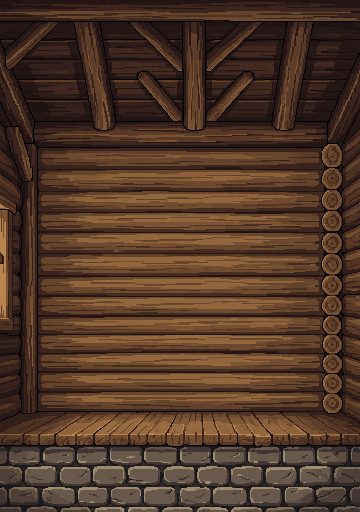
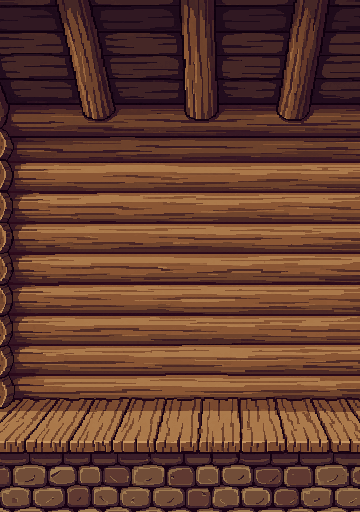
Küche: Hintergründe aus einem Stück mit flacher Wand über die ganze Breite, Prunkschrank geschlossen, Kamin bis zur Decke
Claude-Session: https://claude.ai/code/session_01QHsZuAAZEAAAxXtsadk7nu

diff --git a/index.html b/index.html
@@ -891,28 +891,27 @@ ROOMS2.karte={f:function(){return ['v_welt','mb0','mb1','mb2','mb3','m_lager','m
    bgF: y der Bodenkante im Hintergrundbild je Material. Bodenobjekte stehen auf der Bodenlinie T,
    der Held läuft lane Pixel davor. Wandobjekte: y = Abstand ihrer Unterkante über T. */
 function kMat(s){return s<=2?0:s<=5?1:2;}
-var KIT={halle:{bgF:[418,414,432],lane:[18,26,20],ceil:150,items:[
+var KIT={halle:{bgF:[402,406,404],lane:[24,32,20],top:[118,98,128],items:[
  {n:'teppich',v:3,s:2,x:164,k:'boden',dy:3},
- {n:'banner',v:2,s:3,x:164,k:'wand',y:58},
- {n:'fackel',v:2,s:4,x:100,k:'wand',y:66},{n:'fackel',v:2,s:4,x:226,k:'wand',y:66},
- {n:'leuchter',s:7,x:164,k:'decke',y:96},
- {n:'schrank',v:3,s:1,x:38,k:'boden'},
+ {n:'banner',v:2,s:3,x:164,k:'wand',y:118},
+ {n:'fackel',v:2,s:4,x:100,k:'wand',y:96},{n:'fackel',v:2,s:4,x:226,k:'wand',y:96},
+ {n:'leuchter',s:7,x:164,k:'decke',y:176},
+ {n:'schrank',v:3,s:1,x:36,k:'boden'},
  {n:'ruestung',s:6,x:90,k:'boden'},
  {n:'kamin',v:3,s:0,x:276,k:'boden',up:1},
- {n:'faesser',s:5,x:334,k:'boden'},
+ {n:'faesser',s:5,x:324,k:'boden'},
  {n:'tisch',v:3,s:0,x:164,k:'boden'},
  {n:'katze',s:8,x:258,k:'boden',dy:2}],fire:[276,30]}};
 function kName(r,it,m){return 'k_'+r+'_'+it.n+(it.v===3?m:it.v===2?Math.max(1,m):'');}
-function kList(r){var s=S.up[r]||0,m=kMat(s),l=['k_'+r+'_bg'+m,'k_'+r+'_decke'+m];KIT[r].items.forEach(function(it){if(s>=it.s)l.push(kName(r,it,m));});return l;}
+function kList(r){var s=S.up[r]||0,m=kMat(s),l=['k_'+r+'_bg'+m];KIT[r].items.forEach(function(it){if(s>=it.s)l.push(kName(r,it,m));});return l;}
 function kRoom(r,o){o=o||{};return{f:function(){return kList(r);},sig:o.sig||function(){return '';},
  st:function(x,FY,H){var K=KIT[r],s=S.up[r]||0,m=kMat(s),B=rBand(H,r),bg=wImg('k_'+r+'_bg'+m);B.oy=B.T-K.bgF[m];W.rb=B;W.fy=B.T;scPlace(x,bg,B,H);
   K.items.forEach(function(it){if(s<it.s)return;var im=wImg(kName(r,it,m)),w=im.width,h=im.height,X=Math.round(it.x-w/2),Y;
    if(it.k==='boden')Y=B.T-h+(it.dy||0);else Y=B.T-it.y-h;
-   if(it.k==='decke'){var cy=B.T-K.ceil;x.fillStyle='#2a2018';x.fillRect(it.x,cy,1,Y-cy+4);x.fillStyle='rgba(255,230,160,.18)';x.fillRect(it.x+1,cy,1,Y-cy+4);}
-   if(it.up){var cy2=B.T-K.ceil,yy;for(yy=Y-12;yy>cy2-12;yy-=12)x.drawImage(im,0,0,w,12,X,yy,w,12);}
+   var wt=B.oy+K.top[m];
+   if(it.k==='decke'){var cy=wt;x.fillStyle='#2a2018';x.fillRect(it.x,cy,1,Y-cy+4);x.fillStyle='rgba(255,230,160,.18)';x.fillRect(it.x+1,cy,1,Y-cy+4);}
+   if(it.up){var yy;for(yy=Y-12;yy>wt-12;yy-=12)x.drawImage(im,0,0,w,12,X,yy,w,12);}
    x.drawImage(im,X,Y);});
-  var dk=wImg('k_'+r+'_decke'+m),dy0=B.T-K.ceil-dk.height;if(dy0>0){x.fillStyle='#120c08';x.fillRect(0,0,360,dy0);}x.drawImage(dk,0,dy0);
-  var sg=x.createLinearGradient(0,B.T-K.ceil,0,B.T-K.ceil+24);sg.addColorStop(0,'rgba(10,6,3,.45)');sg.addColorStop(1,'rgba(10,6,3,0)');x.fillStyle=sg;x.fillRect(0,B.T-K.ceil,360,24);
   if(o.st)o.st(x,B,H);},
  dy:function(c,FY,H,t){var B=W.rb||rBand(H,r),K=KIT[r],s=S.up[r]||0;
   if(K.fire)wGlow(c,K.fire[0],B.T-K.fire[1],30+(t%6<3?0:4),'rgba(255,170,70,.30)');

diff --git a/tools/welt.js b/tools/welt.js
@@ -141,28 +141,27 @@ ROOMS2.karte={f:function(){return ['v_welt','mb0','mb1','mb2','mb3','m_lager','m
    bgF: y der Bodenkante im Hintergrundbild je Material. Bodenobjekte stehen auf der Bodenlinie T,
    der Held läuft lane Pixel davor. Wandobjekte: y = Abstand ihrer Unterkante über T. */
 function kMat(s){return s<=2?0:s<=5?1:2;}
-var KIT={halle:{bgF:[418,414,432],lane:[18,26,20],ceil:150,items:[
+var KIT={halle:{bgF:[402,406,404],lane:[24,32,20],top:[118,98,128],items:[
  {n:'teppich',v:3,s:2,x:164,k:'boden',dy:3},
- {n:'banner',v:2,s:3,x:164,k:'wand',y:58},
- {n:'fackel',v:2,s:4,x:100,k:'wand',y:66},{n:'fackel',v:2,s:4,x:226,k:'wand',y:66},
- {n:'leuchter',s:7,x:164,k:'decke',y:96},
- {n:'schrank',v:3,s:1,x:38,k:'boden'},
+ {n:'banner',v:2,s:3,x:164,k:'wand',y:118},
+ {n:'fackel',v:2,s:4,x:100,k:'wand',y:96},{n:'fackel',v:2,s:4,x:226,k:'wand',y:96},
+ {n:'leuchter',s:7,x:164,k:'decke',y:176},
+ {n:'schrank',v:3,s:1,x:36,k:'boden'},
  {n:'ruestung',s:6,x:90,k:'boden'},
  {n:'kamin',v:3,s:0,x:276,k:'boden',up:1},
- {n:'faesser',s:5,x:334,k:'boden'},
+ {n:'faesser',s:5,x:324,k:'boden'},
  {n:'tisch',v:3,s:0,x:164,k:'boden'},
  {n:'katze',s:8,x:258,k:'boden',dy:2}],fire:[276,30]}};
 function kName(r,it,m){return 'k_'+r+'_'+it.n+(it.v===3?m:it.v===2?Math.max(1,m):'');}
-function kList(r){var s=S.up[r]||0,m=kMat(s),l=['k_'+r+'_bg'+m,'k_'+r+'_decke'+m];KIT[r].items.forEach(function(it){if(s>=it.s)l.push(kName(r,it,m));});return l;}
+function kList(r){var s=S.up[r]||0,m=kMat(s),l=['k_'+r+'_bg'+m];KIT[r].items.forEach(function(it){if(s>=it.s)l.push(kName(r,it,m));});return l;}
 function kRoom(r,o){o=o||{};return{f:function(){return kList(r);},sig:o.sig||function(){return '';},
  st:function(x,FY,H){var K=KIT[r],s=S.up[r]||0,m=kMat(s),B=rBand(H,r),bg=wImg('k_'+r+'_bg'+m);B.oy=B.T-K.bgF[m];W.rb=B;W.fy=B.T;scPlace(x,bg,B,H);
   K.items.forEach(function(it){if(s<it.s)return;var im=wImg(kName(r,it,m)),w=im.width,h=im.height,X=Math.round(it.x-w/2),Y;
    if(it.k==='boden')Y=B.T-h+(it.dy||0);else Y=B.T-it.y-h;
-   if(it.k==='decke'){var cy=B.T-K.ceil;x.fillStyle='#2a2018';x.fillRect(it.x,cy,1,Y-cy+4);x.fillStyle='rgba(255,230,160,.18)';x.fillRect(it.x+1,cy,1,Y-cy+4);}
-   if(it.up){var cy2=B.T-K.ceil,yy;for(yy=Y-12;yy>cy2-12;yy-=12)x.drawImage(im,0,0,w,12,X,yy,w,12);}
+   var wt=B.oy+K.top[m];
+   if(it.k==='decke'){var cy=wt;x.fillStyle='#2a2018';x.fillRect(it.x,cy,1,Y-cy+4);x.fillStyle='rgba(255,230,160,.18)';x.fillRect(it.x+1,cy,1,Y-cy+4);}
+   if(it.up){var yy;for(yy=Y-12;yy>wt-12;yy-=12)x.drawImage(im,0,0,w,12,X,yy,w,12);}
    x.drawImage(im,X,Y);});
-  var dk=wImg('k_'+r+'_decke'+m),dy0=B.T-K.ceil-dk.height;if(dy0>0){x.fillStyle='#120c08';x.fillRect(0,0,360,dy0);}x.drawImage(dk,0,dy0);
-  var sg=x.createLinearGradient(0,B.T-K.ceil,0,B.T-K.ceil+24);sg.addColorStop(0,'rgba(10,6,3,.45)');sg.addColorStop(1,'rgba(10,6,3,0)');x.fillStyle=sg;x.fillRect(0,B.T-K.ceil,360,24);
   if(o.st)o.st(x,B,H);},
  dy:function(c,FY,H,t){var B=W.rb||rBand(H,r),K=KIT[r],s=S.up[r]||0;
   if(K.fire)wGlow(c,K.fire[0],B.T-K.fire[1],30+(t%6<3?0:4),'rgba(255,170,70,.30)');
